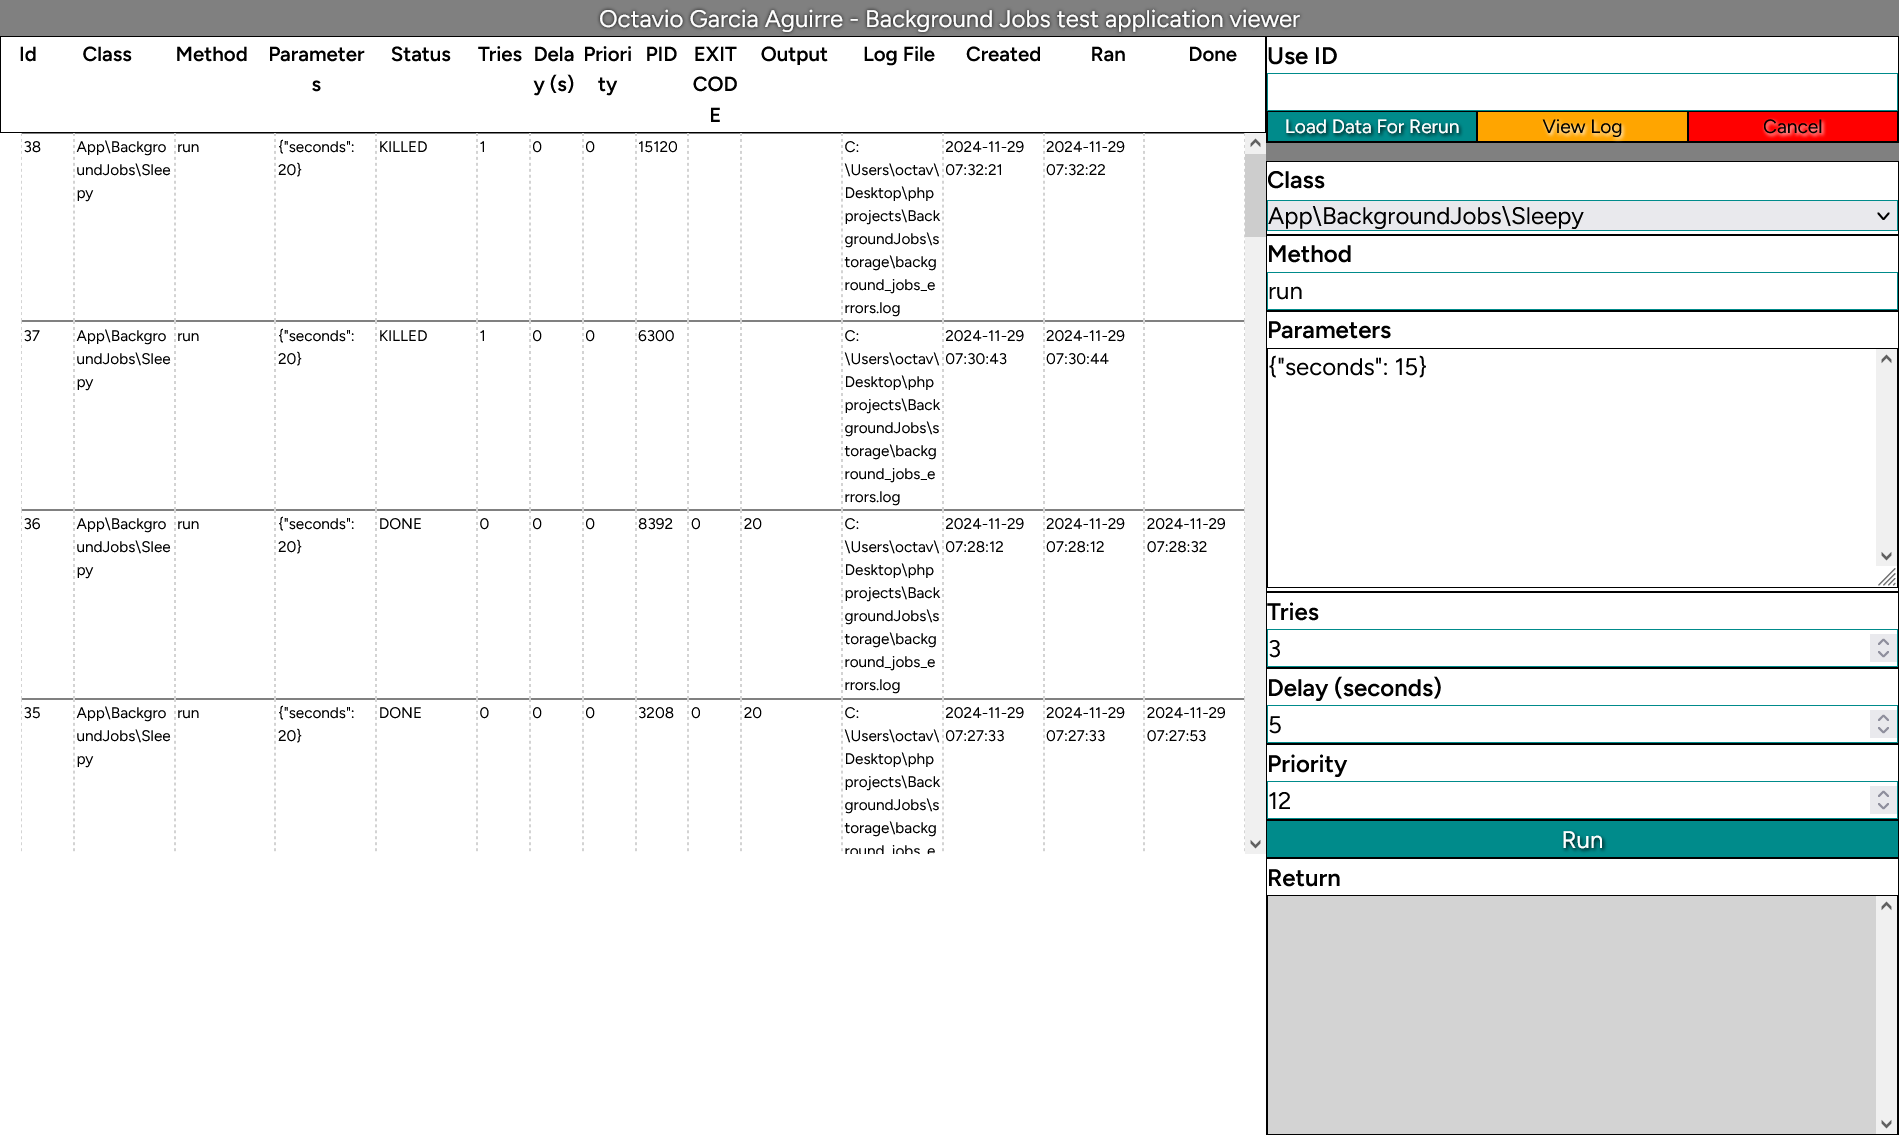
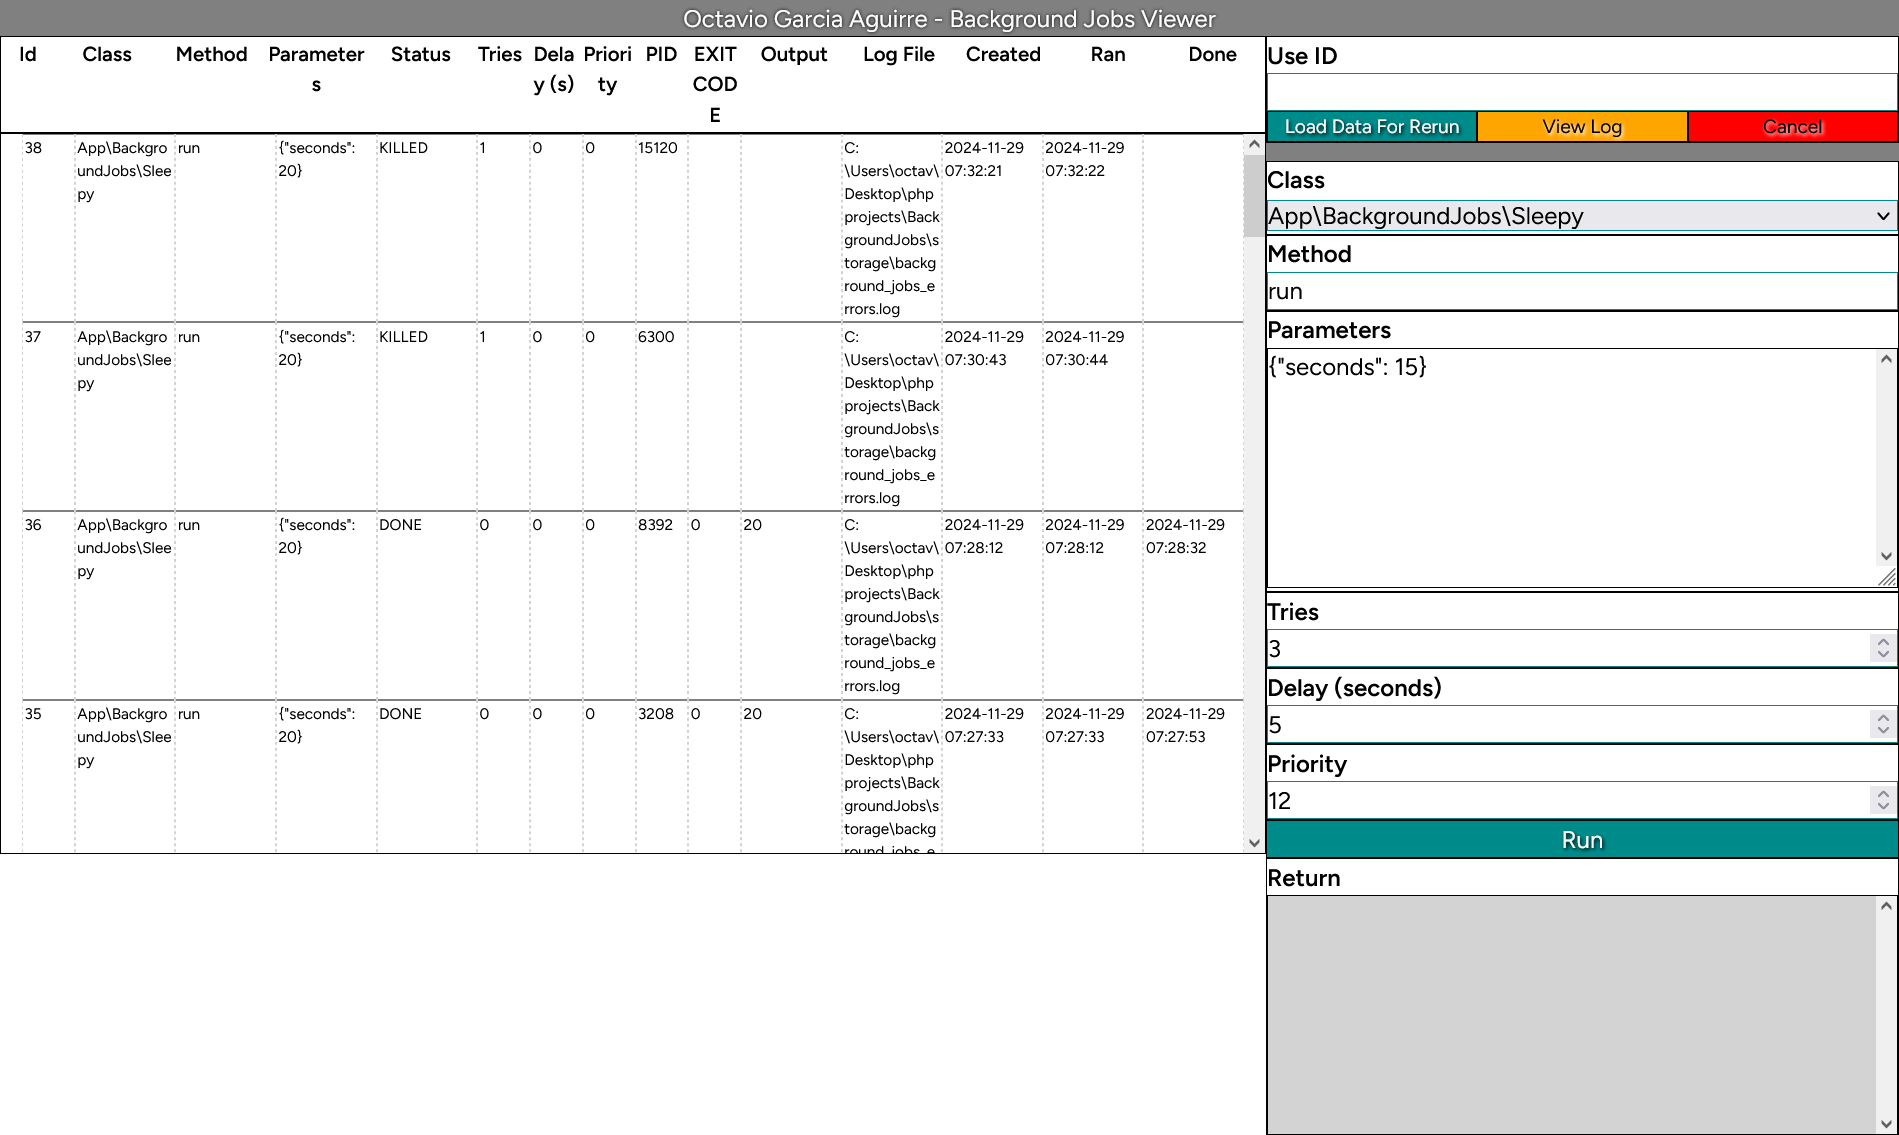
Small presentation changes

diff --git a/resources/views/backgroundJobs.blade.php b/resources/views/backgroundJobs.blade.php
@@ -91,7 +91,7 @@
                             </tr>
                         </thead>
                     </table>
-                    <div style="height: 80vh;overflow-y: scroll;scrollbar-gutter: stable both-edges;">
+                    <div style="height: 80vh;overflow-y: scroll;scrollbar-gutter: stable both-edges;border: 1px solid black;">
                         <table class="flex-columns" style="width: 100%;" data-js-autoreload-table data-miliseconds=1500 data-method="GET" data-action="/backgroundJobs">
                             <tbody>
                                 <tr data-cast-row>
